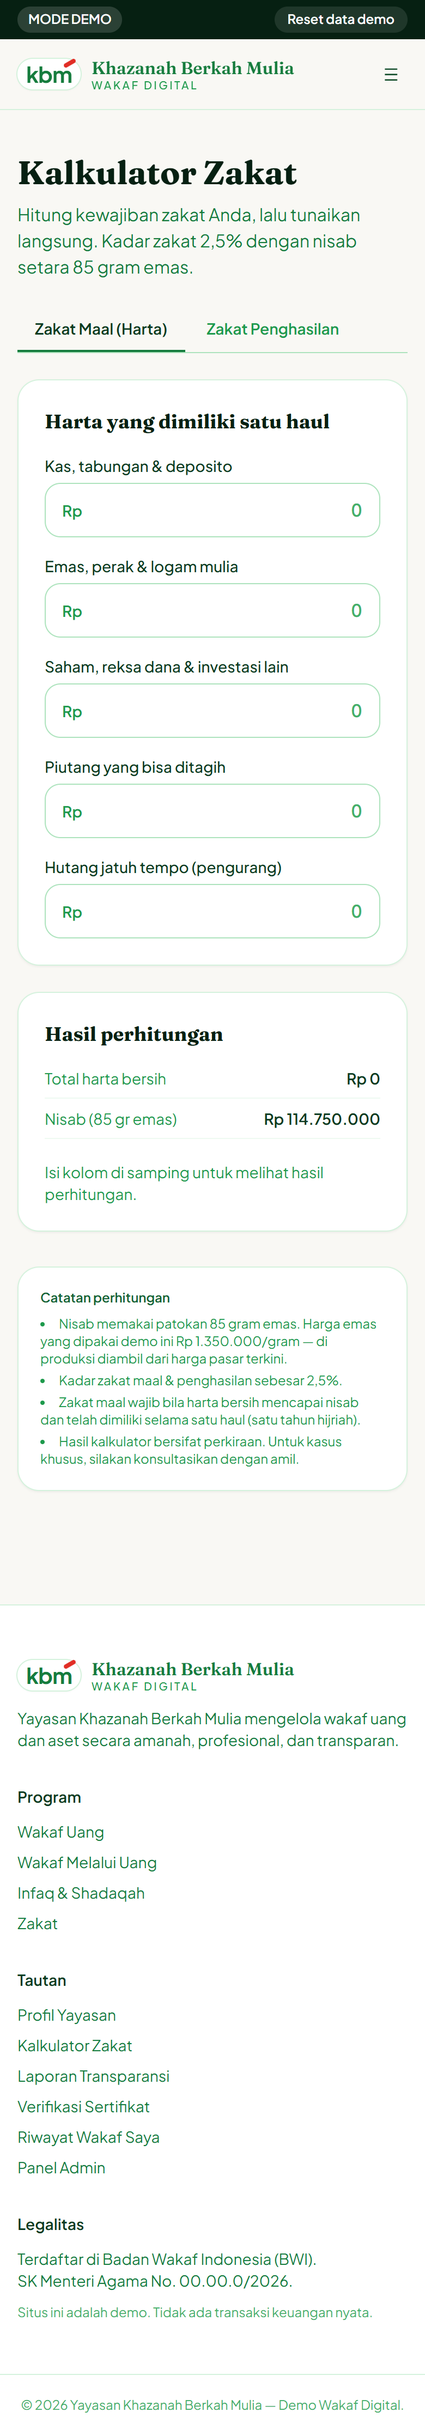
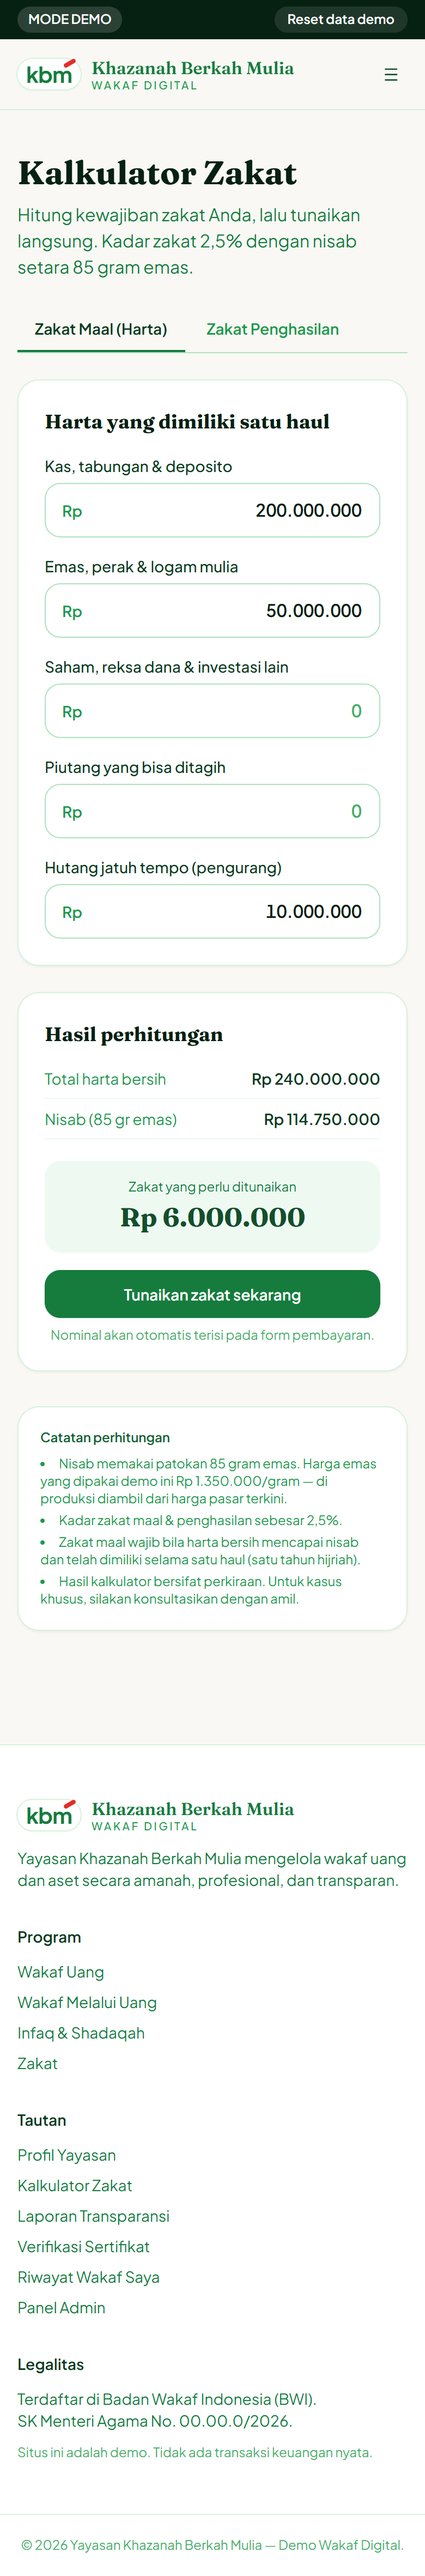
Tambah screenshot HP untuk halaman zakat & profil
- mobile-04-kalkulator-zakat (terisi contoh, hasil perhitungan tampak)
- mobile-05-profil-yayasan (baru)
- README: tabel screenshot HP ditambah 2 halaman baru

diff --git a/README.md b/README.md
@@ -121,7 +121,9 @@ Rp 313.500.000 → **Rp 313.600.000**, 214 → **215 wakif** (baca dari mock-db 
 | --- | --- | --- |
 | ![Beranda HP](docs/screenshots/mobile-01-beranda.png) | ![Daftar program HP](docs/screenshots/mobile-02-daftar-program.png) | ![Detail program HP](docs/screenshots/mobile-03-detail-program.png) |
 
-![Kalkulator zakat HP](docs/screenshots/mobile-04-kalkulator-zakat.png)
+| Kalkulator zakat | Profil yayasan |
+| --- | --- |
+| ![Kalkulator zakat HP](docs/screenshots/mobile-04-kalkulator-zakat.png) | ![Profil yayasan HP](docs/screenshots/mobile-05-profil-yayasan.png) |
 
 ## Responsif
 
